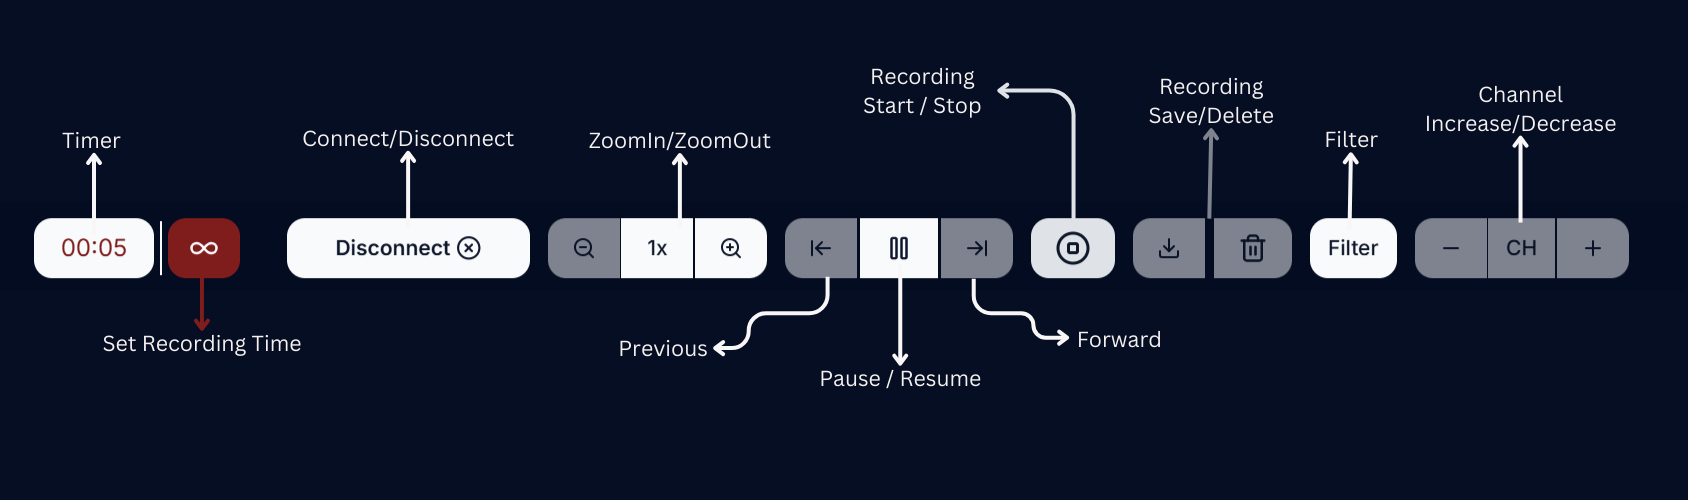
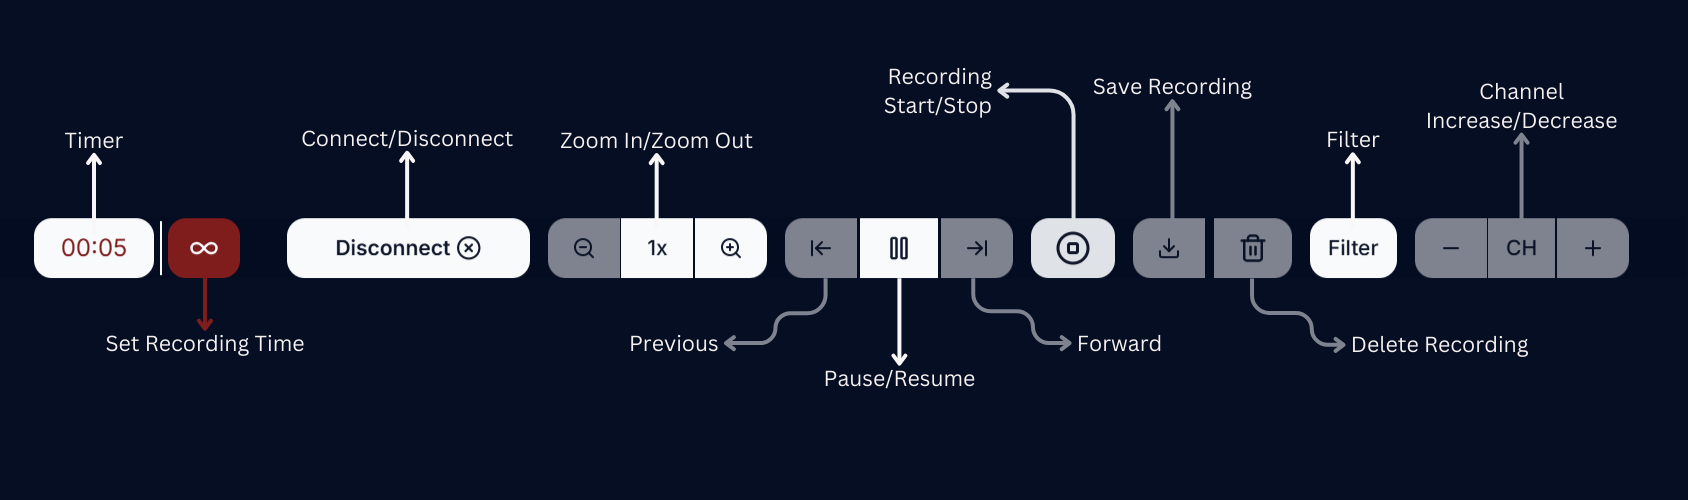
resolved issues

diff --git a/software/chords/chords-web/index.rst b/software/chords/chords-web/index.rst
@@ -66,7 +66,7 @@ Using the Software
 ==================
 
 1. Click the ``Connect`` button to establish a connection with the Arduino and start streaming.
-2. Use the ``ZoomIn/Out`` button to adjust the data visualization.
+2. Use the ``ZoomIn/ZoomOut`` button to adjust the data visualization.
 3. Use the ``Play/Pause`` button to control the data stream. Navigate the last five snapshots with the ``Left/Right`` buttons in the Frame Buffer feature.
 4. Click the ``Record`` button to start recording data into a CSV file.
 5. To save the recorded data, click the ``Download`` button.
